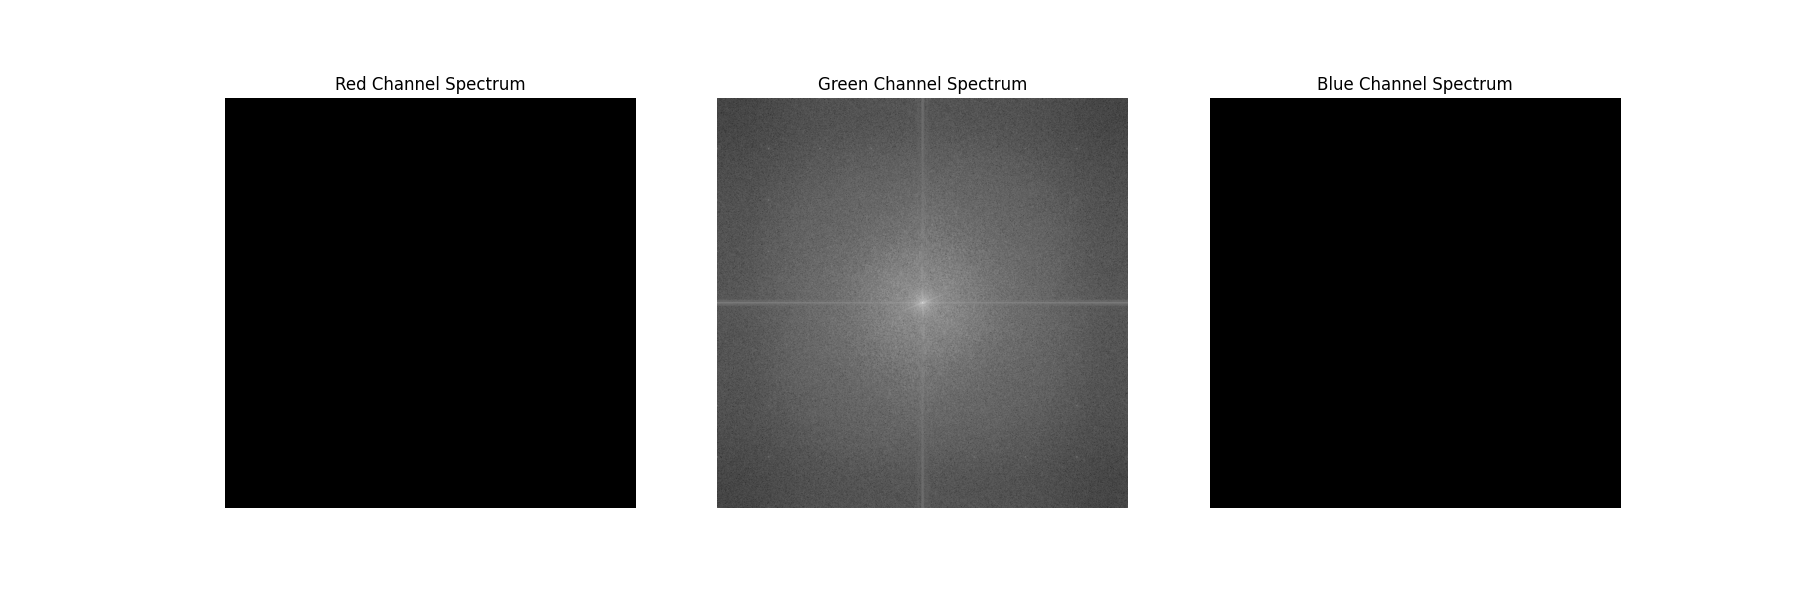
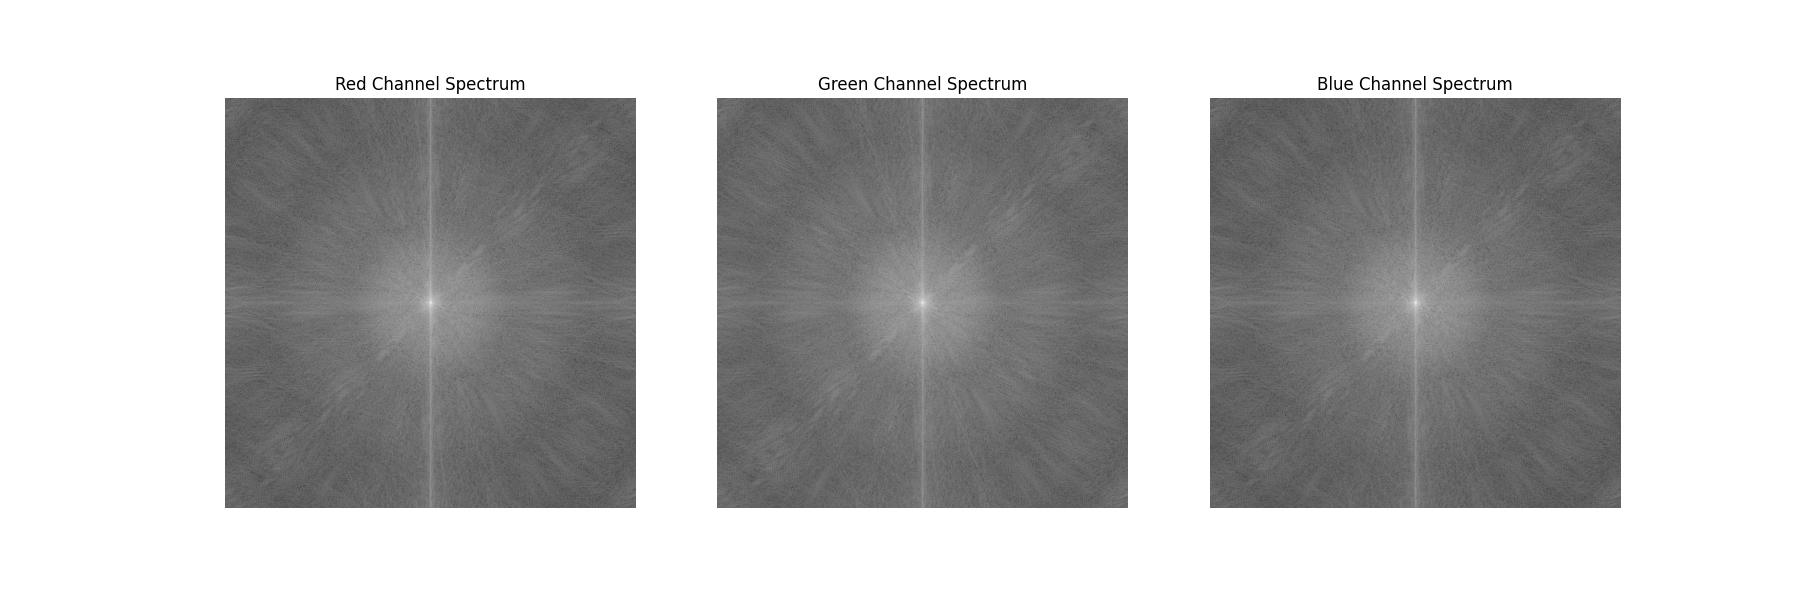
m

diff --git a/imageFFT.py b/imageFFT.py
@@ -32,7 +32,7 @@ plt.savefig('greenAreaLille')
 # fadeGreened=trimmer.greenify(fadeGreened,180)
 # fadeGreened=trimmer.greenify(fadeGreened,180)
 
-# tonedGreened = cropimage
+tonedGreened = Image.open('prototypePath.png')
 # tonedGreened = trimmer.greenifyall(tonedGreened,20)
 # tonedGreened = trimmer.greenifyall(tonedGreened,20)
 # tonedGreened = trimmer.greenifyall(tonedGreened,20)
@@ -43,7 +43,7 @@ plt.savefig('greenAreaLille')
 # cropblackedge=trimmer.createBlackCopy(cropimage)[1]
 # cropimage.show()
 
-#fastfour.doFFTonImage(tonedGreened)
+fastfour.doFFTonImage(tonedGreened)
 
 
 
